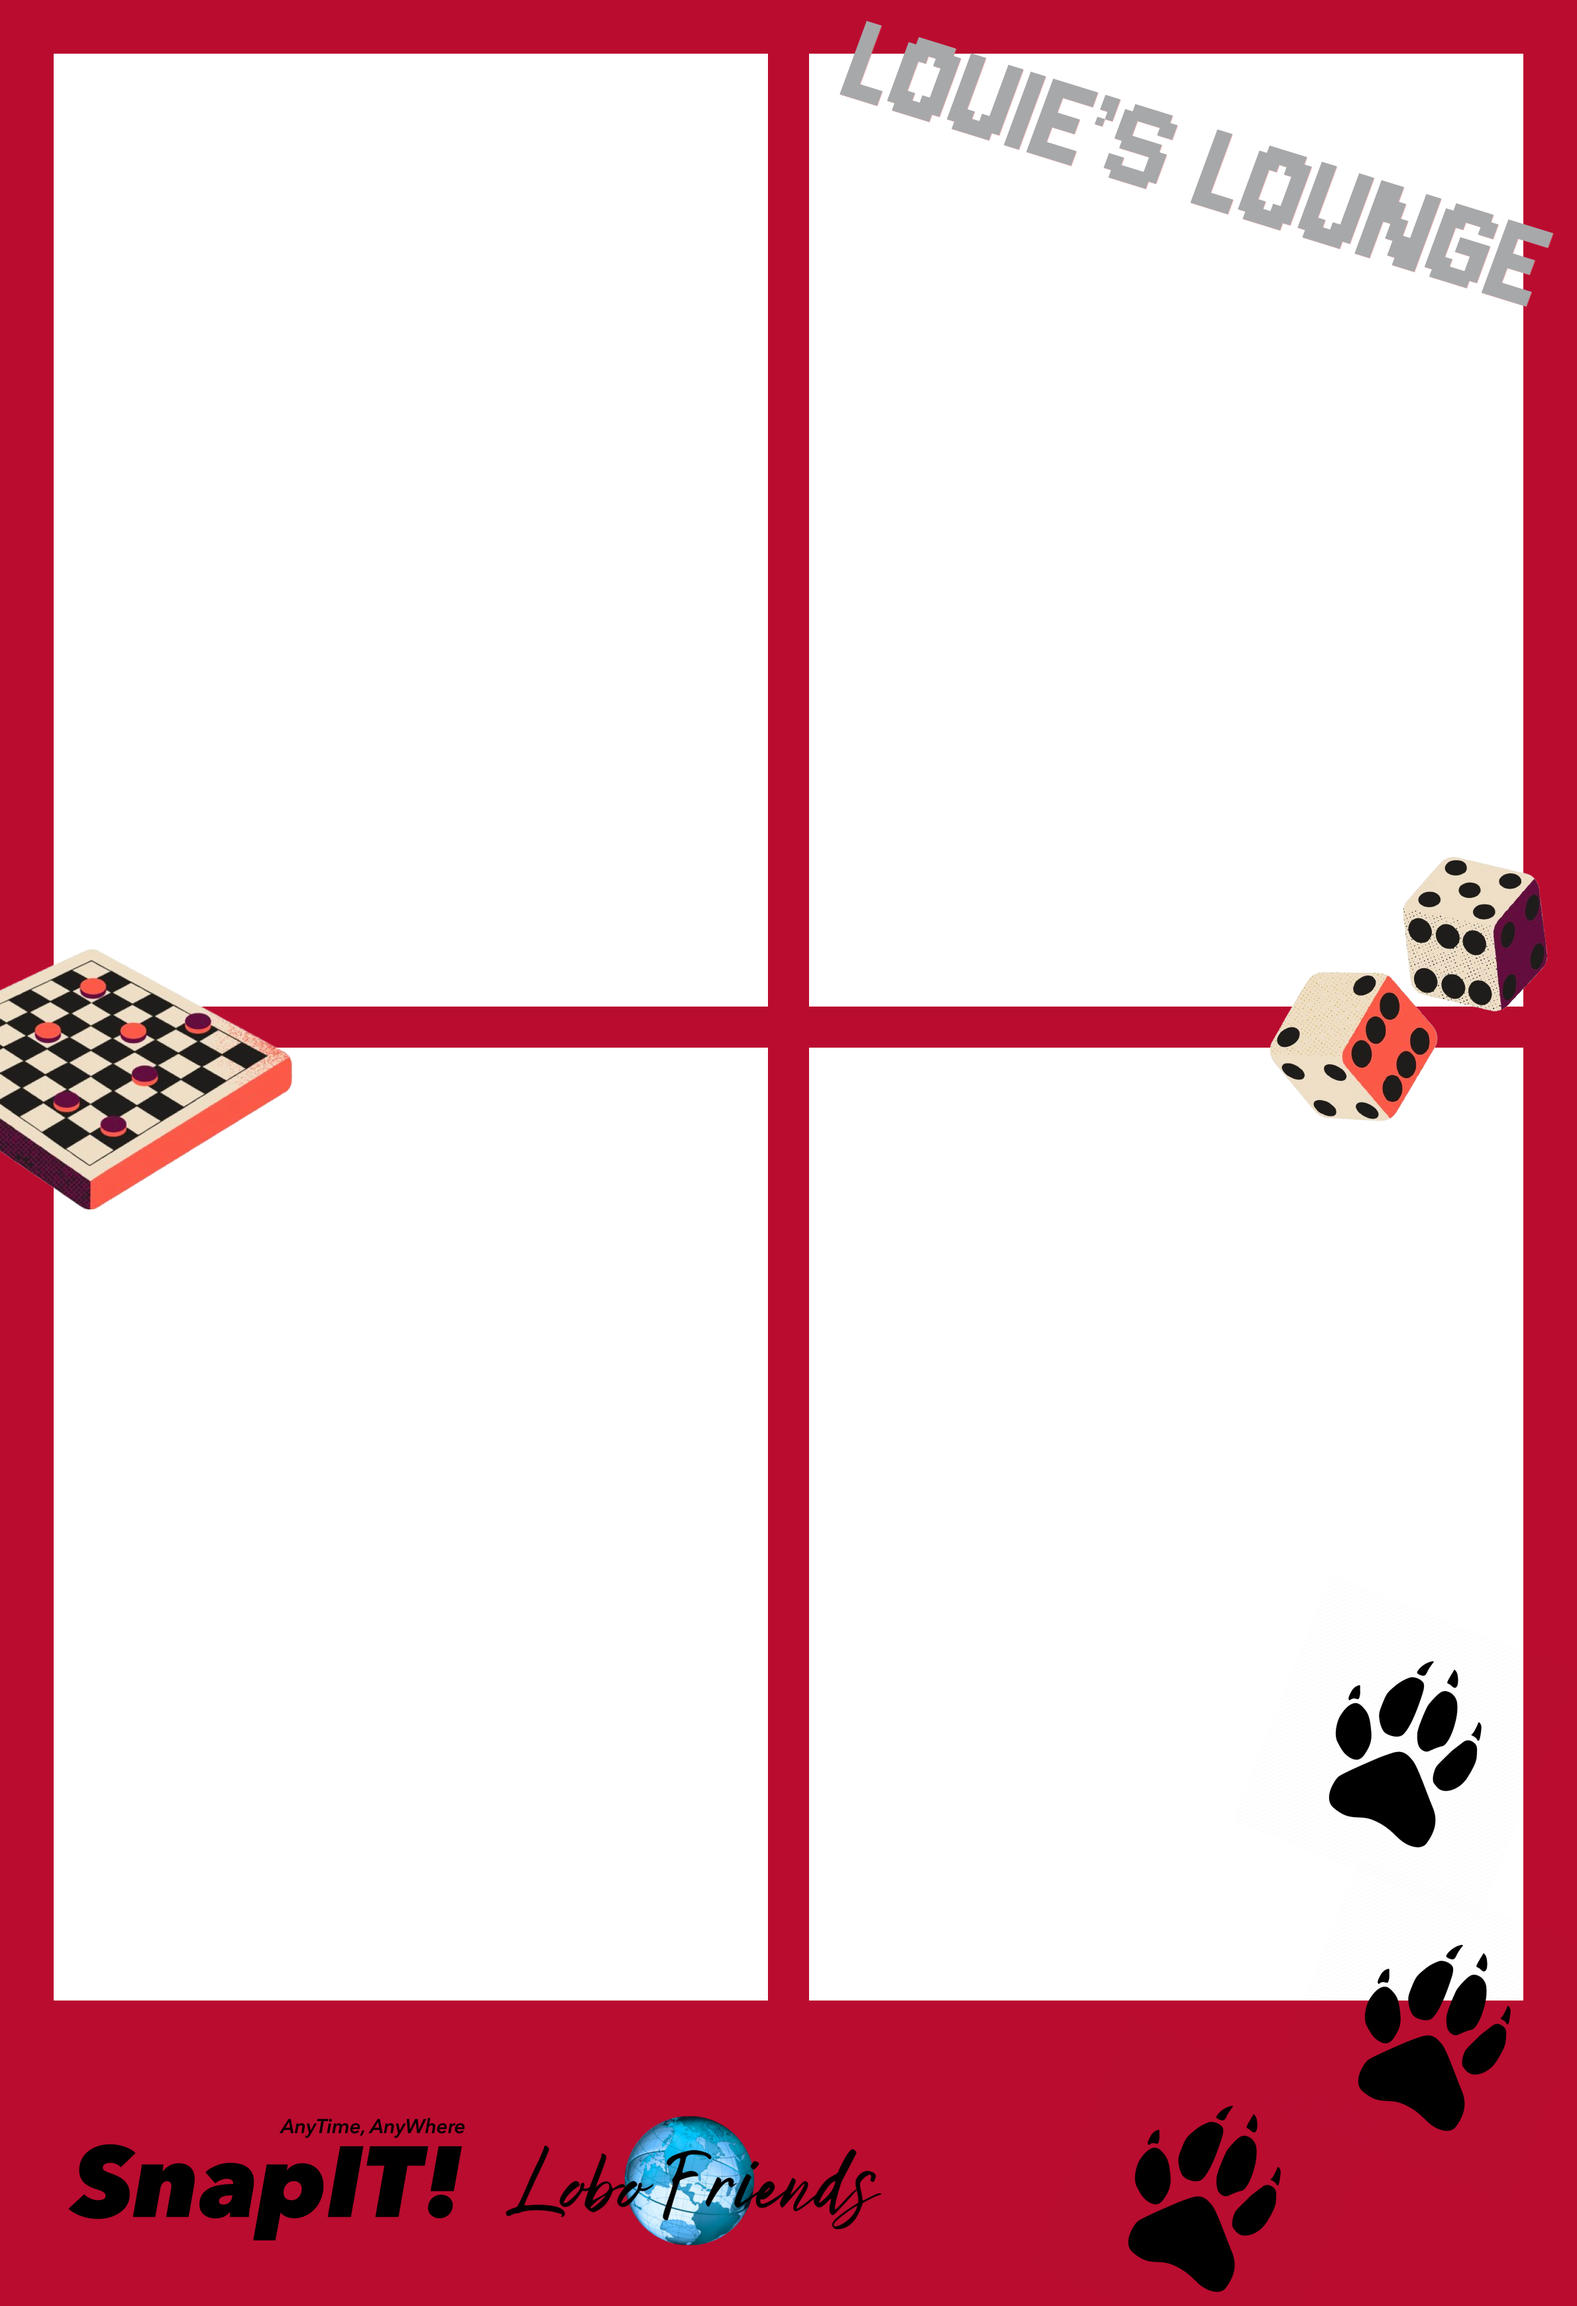
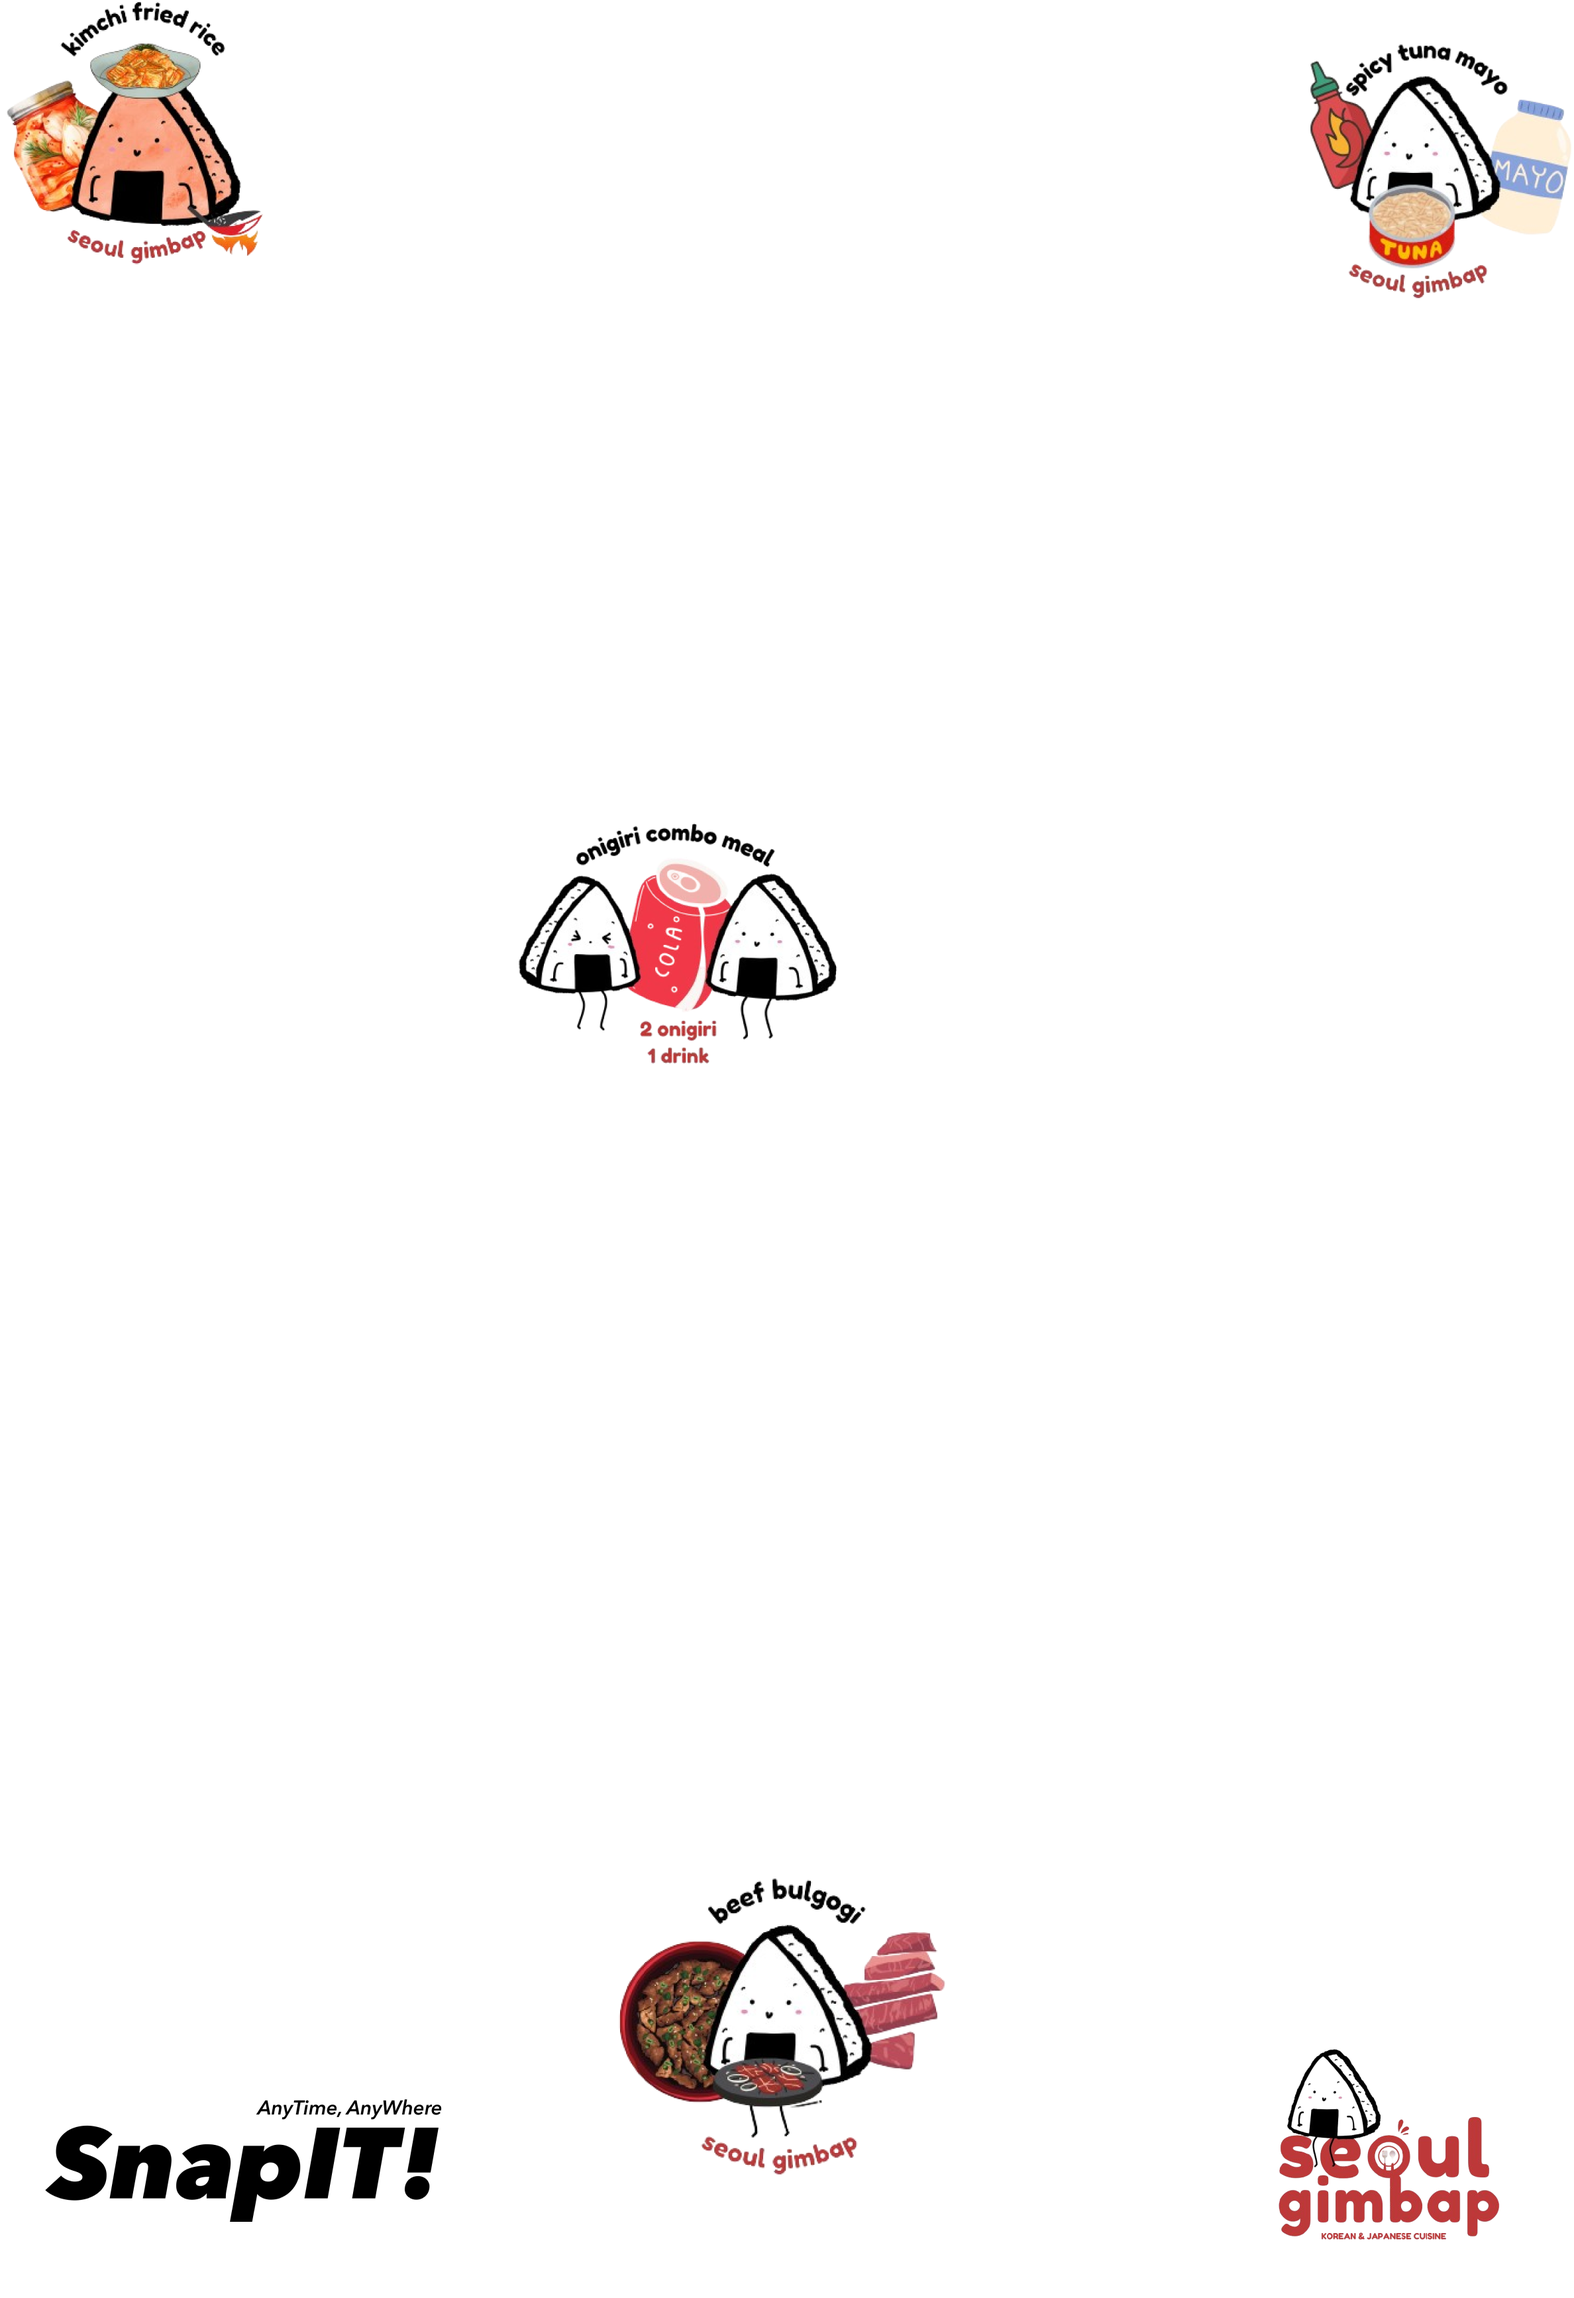
Feature/seoul gimbap frame (#78)
* 🍱 Add frame images

* ✨ Add seoul gimbap frame

diff --git a/lib/screens/display_picture_screen.dart b/lib/screens/display_picture_screen.dart
@@ -32,7 +32,7 @@ class DisplayPictureScreen extends StatefulWidget {
 }
 
 class _DisplayPictureScreenState extends State<DisplayPictureScreen> {
-  Color selectedFrameColor = const Color.fromARGB(255, 171, 39, 52);
+  Color selectedFrameColor = const Color.fromARGB(255, 255, 255, 255);
   late Uint8List originalImageBytes; // Store the original image bytes
   bool isLoading = false;
   img.Image frame = img.Image(0, 0);
@@ -53,12 +53,12 @@ class _DisplayPictureScreenState extends State<DisplayPictureScreen> {
 
   Future<String> createImageFile(Uint8List imageBytes) async {
     // Create the framed image with the selected frame color
-    final framedImage =
-        applyFrameColor(widget.mergedFourImage, selectedFrameColor);
+    // final framedImage =
+    //     applyFrameColor(widget.mergedFourImage, selectedFrameColor);
 
     final tempDir = await getTemporaryDirectory();
     final tempFile = await File('${tempDir.path}/temp_image.png').create();
-    await tempFile.writeAsBytes(img.encodePng(framedImage));
+    await tempFile.writeAsBytes(img.encodePng(widget.mergedFourImage));
     return tempFile.path;
   }
 
@@ -108,11 +108,11 @@ class _DisplayPictureScreenState extends State<DisplayPictureScreen> {
     }
   }
 
-  bool _isDialogShowing = false;  // 다이얼로그 중복 방지 플래그
+  bool _isDialogShowing = false; // 다이얼로그 중복 방지 플래그
 
   void showLoadingIndicator(BuildContext context) {
     if (!_isDialogShowing) {
-      _isDialogShowing = true;  // 다이얼로그가 이미 표시 중인지 플래그로 체크
+      _isDialogShowing = true; // 다이얼로그가 이미 표시 중인지 플래그로 체크
       showDialog(
         context: context,
         barrierDismissible: false, // 사용자가 뒤를 클릭해도 닫히지 않도록 설정
@@ -129,8 +129,8 @@ class _DisplayPictureScreenState extends State<DisplayPictureScreen> {
 
   void hideLoadingIndicator(BuildContext context) {
     if (_isDialogShowing && mounted) {
-      _isDialogShowing = false;  // 다이얼로그 표시 상태 해제
-      Navigator.of(context, rootNavigator: true).pop();  // 다이얼로그 닫기
+      _isDialogShowing = false; // 다이얼로그 표시 상태 해제
+      Navigator.of(context, rootNavigator: true).pop(); // 다이얼로그 닫기
     }
   }
 
@@ -138,7 +138,7 @@ class _DisplayPictureScreenState extends State<DisplayPictureScreen> {
     String imageFilePath = await createImageFile(originalImageBytes);
     String? downloadUrl;
     try {
-      showLoadingIndicator(context);  // 로딩 인디케이터 표시
+      showLoadingIndicator(context); // 로딩 인디케이터 표시
 
       // 비동기 파일 읽기
       final File imageFile = File(imageFilePath);
@@ -146,7 +146,8 @@ class _DisplayPictureScreenState extends State<DisplayPictureScreen> {
 
       // Firebase Storage 참조 및 파일 업로드
       final storageRef = FirebaseStorage.instance.ref();
-      final imageRef = storageRef.child("4cuts/${DateTime.now().millisecondsSinceEpoch}.png");
+      final imageRef = storageRef
+          .child("4cuts/${DateTime.now().millisecondsSinceEpoch}.png");
 
       // 메타데이터 설정
       final metadata = SettableMetadata(contentType: 'image/png');
@@ -164,10 +165,9 @@ class _DisplayPictureScreenState extends State<DisplayPictureScreen> {
     } catch (e) {
       print('Error saving image to Firebase Storage: $e');
     } finally {
-      hideLoadingIndicator(context);  // 항상 로딩 인디케이터를 숨김
+      hideLoadingIndicator(context); // 항상 로딩 인디케이터를 숨김
     }
   }
-
 
   void _showQRCodeModal(BuildContext context, String downloadUrl) {
     showCupertinoDialog(

diff --git a/lib/screens/home_screen.dart b/lib/screens/home_screen.dart
@@ -40,9 +40,9 @@ class HomeScreen extends StatelessWidget {
             largeButton(
               context,
               "assets/select_special.png",
-              "Louie's Lounge Special Frame",
-              "You can take 4-cut photos with Louie's Lounge special frame",
-              Color.fromARGB(255, 186, 12, 47),
+              "Seoul Gimbap Special Frame",
+              "You can take 4-cut photos with Seoul Gimbap special frame",
+              Color.fromARGB(255, 187, 58, 55),
               () {
                 Navigator.push(
                   context,

diff --git a/lib/screens/camera_screen.dart b/lib/screens/camera_screen.dart
@@ -40,7 +40,7 @@ class _CameraScreenState extends State<CameraScreen>
   img.Image frame = img.Image(0, 0);
 
   Timer? _timer; // Timer object for countdown
-  int _countdown = 7; // Countdown start value
+  int _countdown = 5; // Countdown start value
   bool isShowingTakenPhoto = false; // Flag to show the taken photo
   bool isFlashing = false; // Flag for flash effect
 
@@ -140,7 +140,7 @@ class _CameraScreenState extends State<CameraScreen>
   void resetTimer() {
     _timer?.cancel();
     setState(() {
-      _countdown = 7;
+      _countdown = 5;
     });
   }
 
